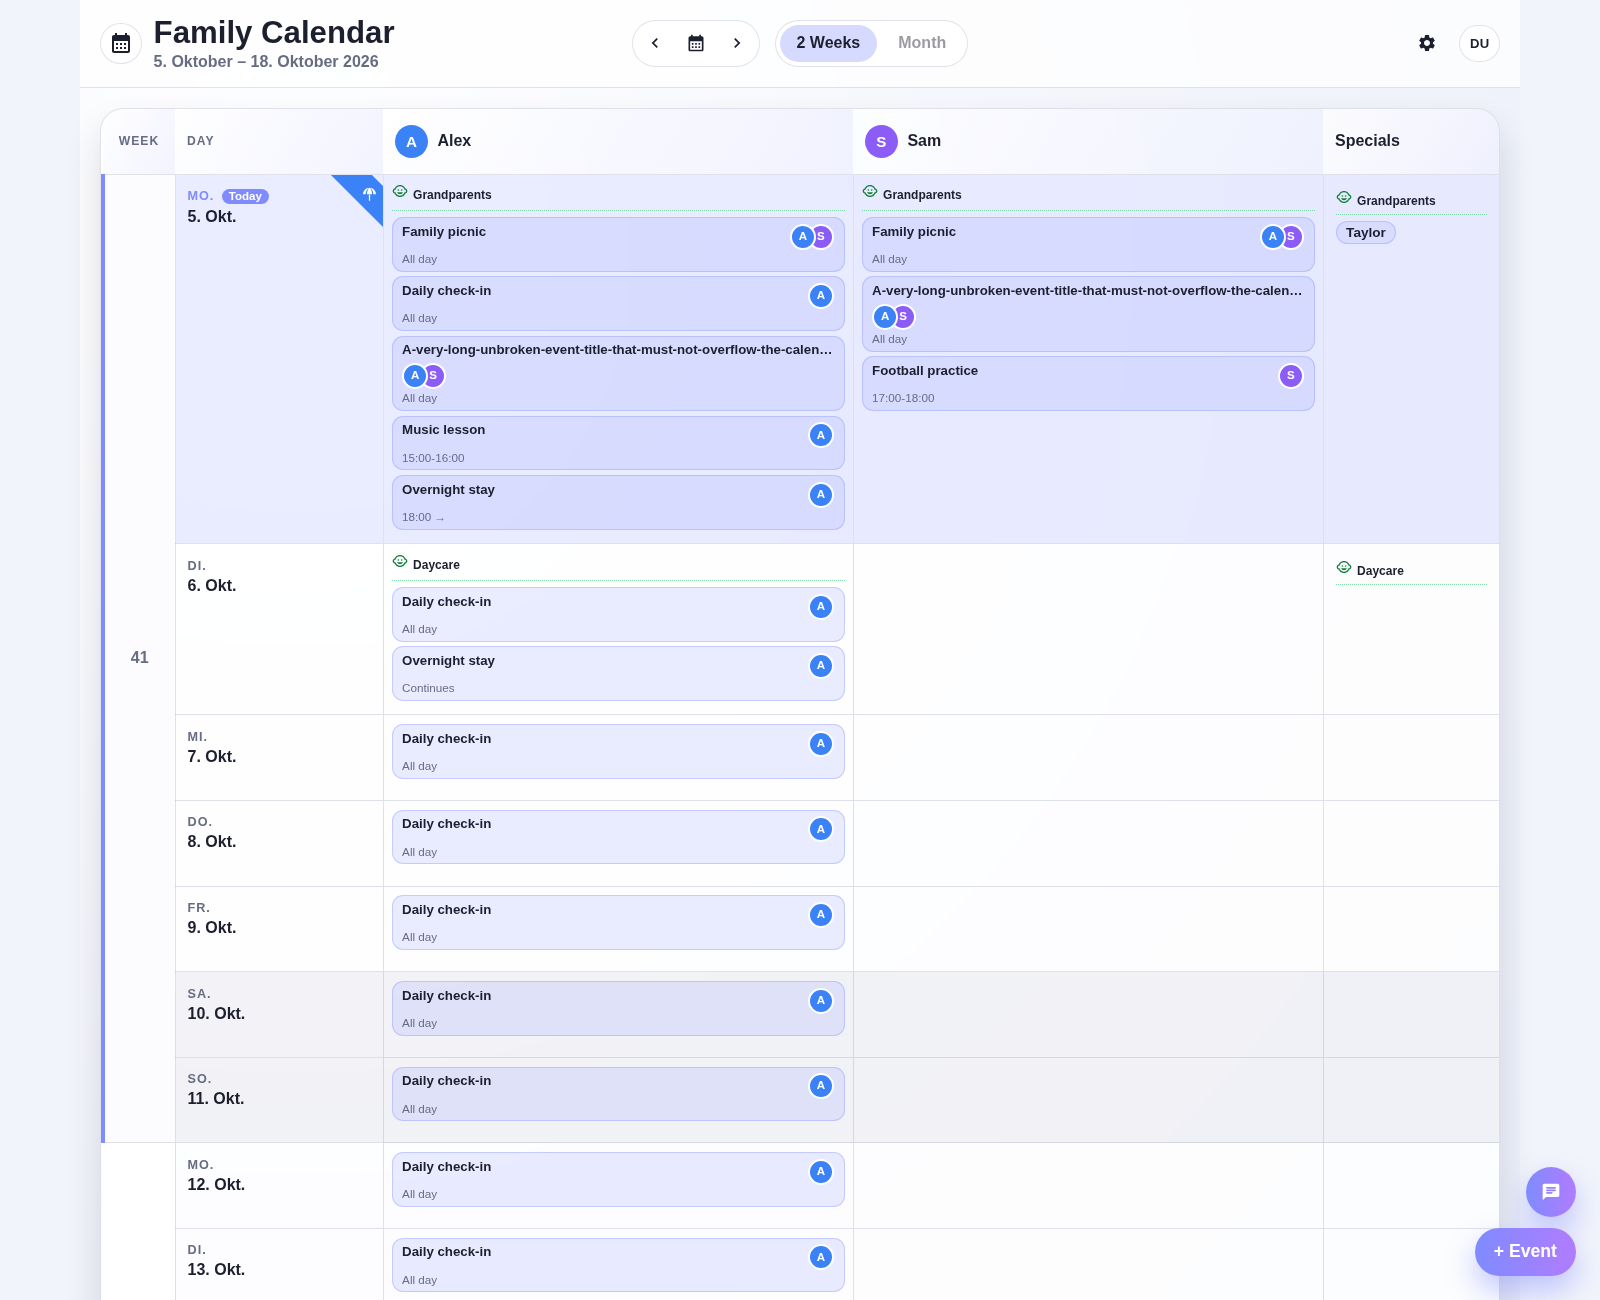
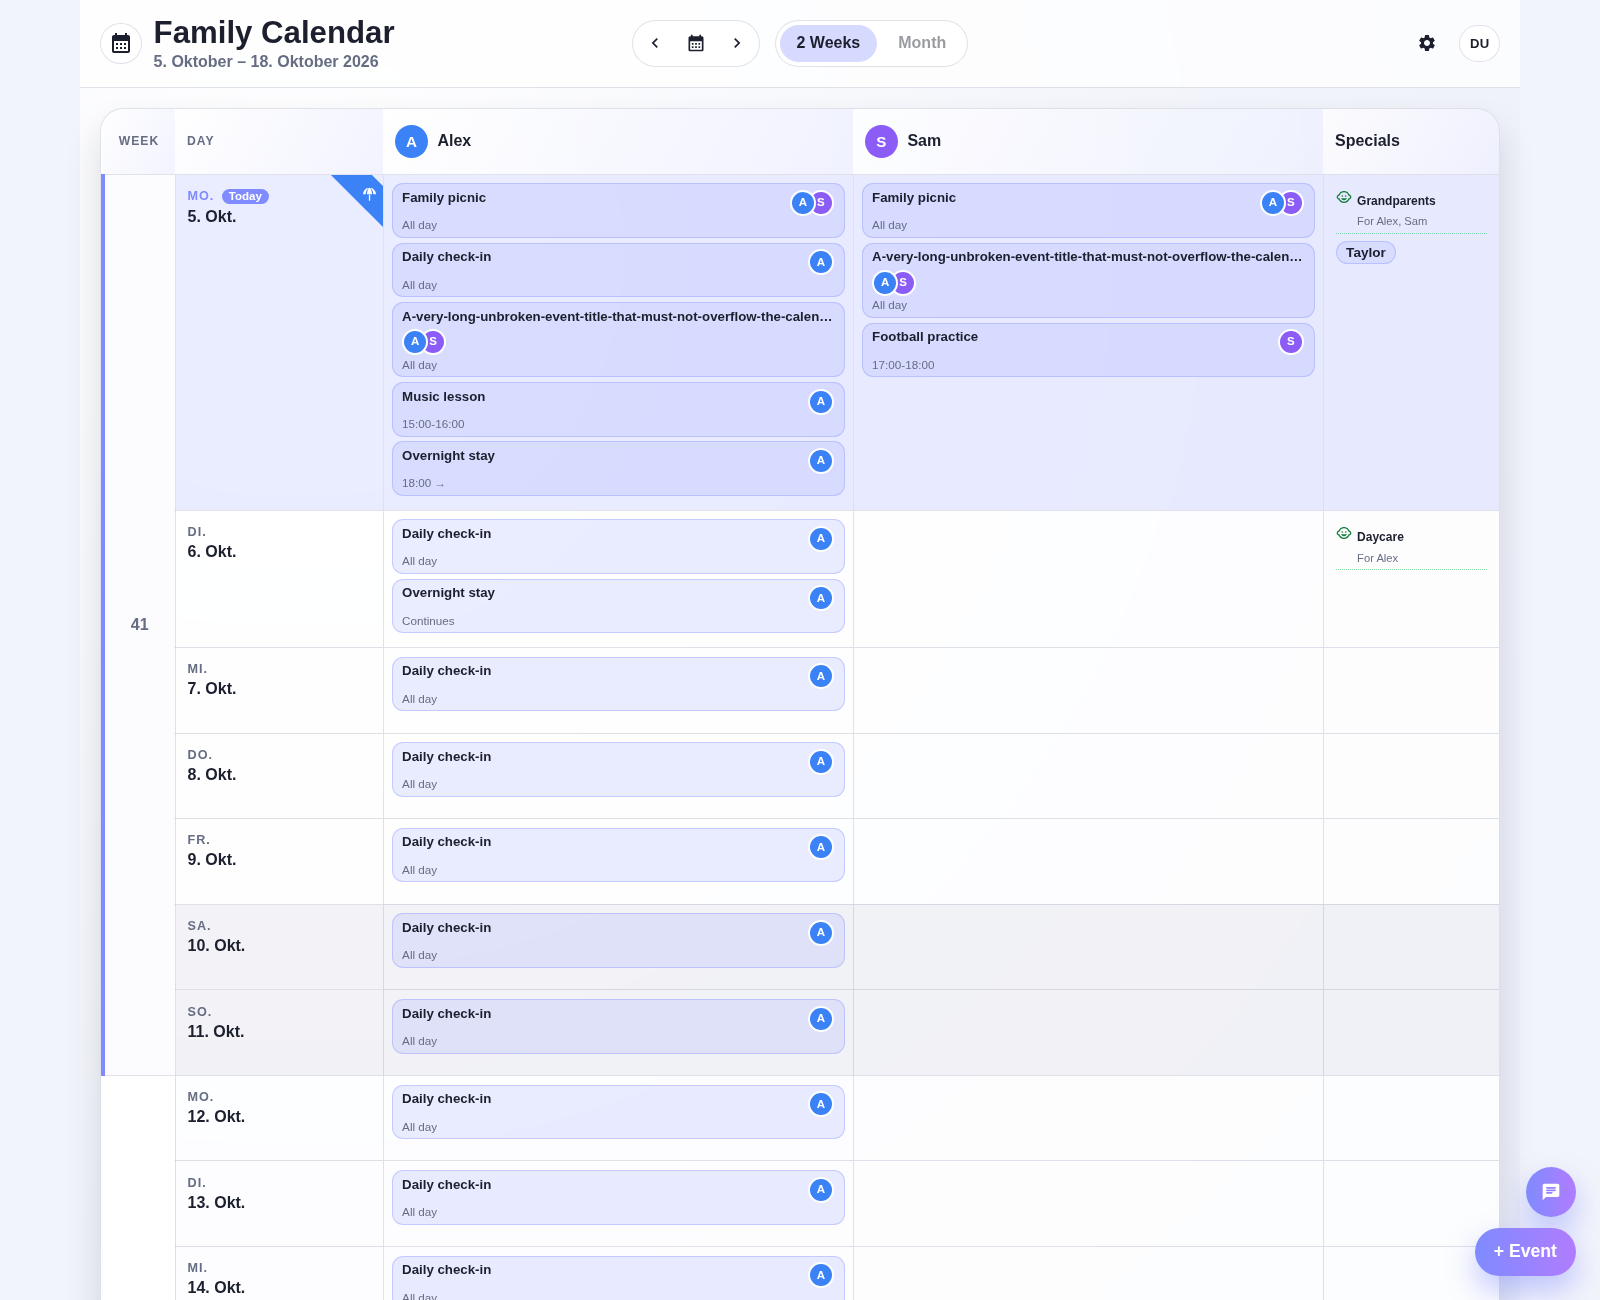
Keep childcare exclusively in Specials

diff --git a/frontend/src/pages/DashboardPage.tsx b/frontend/src/pages/DashboardPage.tsx
@@ -35,11 +35,9 @@ interface DayCellDecorations {
 function ChildcareCalendarEntry({
   occurrence,
   members,
-  className,
 }: {
   occurrence: ResolvedChildcareOccurrence;
   members: FamilyMember[];
-  className?: string;
 }) {
   const memberById = new Map(members.map((member) => [member.id, member]));
   const childNames = occurrence.childIds
@@ -57,12 +55,13 @@ function ChildcareCalendarEntry({
 
   return (
     <div
-      className={`calendar-childcare-entry ${className ?? ""}`.trim()}
+      className="calendar-childcare-entry"
       title={`${providerName} · ${details}`}
       aria-label={`Childcare: ${providerName}. ${details}`}
     >
       <ChildCareIcon className="calendar-childcare-icon" fontSize="small" aria-hidden="true" />
       <strong>{providerName}</strong>
+      <small>For {childNames.join(", ") || "household children"}</small>
     </div>
   );
 }
@@ -859,24 +858,8 @@ export function DashboardPage({
 
                       {visibleMembers.map((member) => {
                         const entries = eventsByDateAndMember.get(`${isoDate}|${member.id}`) ?? [];
-                        const childcareEntries = (childcareByDate.get(isoDate) ?? [])
-                          .filter((occurrence) => occurrence.childIds.includes(member.id));
                         return (
-                          <td
-                            key={`${isoDate}-${member.id}`}
-                            className={`event-cell member-event-cell ${childcareEntries.length > 0 ? "has-childcare" : ""}`}
-                          >
-                            {childcareEntries.length > 0 && (
-                              <div className="calendar-childcare-rail">
-                                {childcareEntries.map((occurrence) => (
-                                  <ChildcareCalendarEntry
-                                    key={occurrence.id}
-                                    occurrence={occurrence}
-                                    members={orderedMembers}
-                                  />
-                                ))}
-                              </div>
-                            )}
+                          <td key={`${isoDate}-${member.id}`} className="event-cell member-event-cell">
                             {entries.map((entry) => {
                               const eventType = entry.eventTypeId ? eventTypeById.get(entry.eventTypeId) : null;
                               const assignedMembers = entry.memberIds
@@ -899,16 +882,6 @@ export function DashboardPage({
                       })}
 
                       <td className="event-cell shared-events-column">
-                        {(childcareByDate.get(isoDate) ?? [])
-                          .filter((occurrence) => !selectedMember || occurrence.childIds.includes(selectedMember.id))
-                          .map((occurrence) => (
-                            <ChildcareCalendarEntry
-                              key={occurrence.id}
-                              occurrence={occurrence}
-                              members={orderedMembers}
-                              className="calendar-childcare-entry--compact-only"
-                            />
-                          ))}
                         {(eventsByDateAndMember.get(isoDate) ?? [])
                           .filter((entry) => !selectedMember || entry.memberIds.length === 0 || entry.memberIds.includes(selectedMember.id))
                           .map((entry) => (
@@ -921,11 +894,6 @@ export function DashboardPage({
                               onClick={() => openEventViewDialog(entry.id)}
                             />
                           ))}
-                        {birthdayEntries.map((entry) => (
-                          <span className="birthday-item" key={entry.id}>
-                            Birthday: {formatBirthdayLabel(entry)}
-                          </span>
-                        ))}
                       </td>
 
                       <td className="specials-cell">
@@ -934,7 +902,6 @@ export function DashboardPage({
                             key={occurrence.id}
                             occurrence={occurrence}
                             members={orderedMembers}
-                            className="calendar-childcare-entry--specials"
                           />
                         ))}
                         {birthdayEntries.map((entry) => (

diff --git a/frontend/src/pages/DashboardPage.stories.tsx b/frontend/src/pages/DashboardPage.stories.tsx
@@ -109,17 +109,17 @@ export const Desktop: Story = {
     const memberCells = todayRow.querySelectorAll(".member-event-cell");
     await waitFor(() => {
       expect(memberCells).toHaveLength(2);
-      const firstChildcare = memberCells[0].querySelector(".calendar-childcare-entry");
-      expect(firstChildcare?.textContent).toBe("Grandparents");
-      expect(firstChildcare?.querySelector(".calendar-childcare-icon")).not.toBeNull();
-      expect(firstChildcare?.getAttribute("title")).toContain("All day");
-      expect(firstChildcare?.textContent).not.toContain("For Alex");
+      expect(todayRow.querySelector(".calendar-childcare-entry")).toBeNull();
       const specialsCell = todayRow.querySelector(".specials-cell")!;
-      expect(specialsCell.querySelector(".calendar-childcare-entry")?.textContent).toBe("Grandparents");
+      const firstChildcare = specialsCell.querySelector(".calendar-childcare-entry")!;
+      expect(firstChildcare.textContent).toContain("Grandparents");
+      expect(firstChildcare.textContent).toContain("For Alex, Sam");
+      expect(firstChildcare.querySelector(".calendar-childcare-icon")).not.toBeNull();
+      expect(firstChildcare.getAttribute("title")).toContain("All day");
       expect(specialsCell.textContent.indexOf("Grandparents")).toBeLessThan(specialsCell.textContent.indexOf("Taylor"));
       expect(canvasElement.querySelector(".specials-column-header")?.textContent).toBe("Specials");
       expect(canvasElement.querySelector(".specials-column-header svg")).toBeNull();
-      expect(todayRow.querySelector(".shared-events-column .calendar-childcare-entry")).not.toBeVisible();
+      expect(todayRow.querySelector(".shared-events-column .calendar-childcare-entry")).toBeNull();
     });
   },
 };
@@ -157,15 +157,28 @@ export const DayAndEvents: Story = {
     await expect(events()).toHaveLength(1);
     await waitFor(() => {
       const sharedEvents = canvasElement.querySelector(".today-row .shared-events-column")!;
-      const entries = sharedEvents.querySelectorAll(".calendar-childcare-entry--compact-only");
-      const entry = entries[0];
+      const memberCells = canvasElement.querySelectorAll(".today-row .member-event-cell");
+      const specialsCell = canvasElement.querySelector(".today-row .specials-cell")!;
+      const entries = specialsCell.querySelectorAll(".calendar-childcare-entry");
+      const entry = entries[0]!;
+      const daycareEntry = Array.from(canvasElement.querySelectorAll(".specials-cell .calendar-childcare-entry"))
+        .find((childcareEntry) => childcareEntry.textContent?.includes("Daycare"));
+      expect(memberCells).toHaveLength(2);
+      expect(canvasElement.querySelector(".today-row .calendar-childcare-entry")).toBe(entry);
+      expect(specialsCell).toBeVisible();
+      expect(Array.from(memberCells).every((cell) => !cell.querySelector(".calendar-childcare-entry"))).toBe(true);
       expect(entry).toBeVisible();
-      expect(entry?.textContent).toBe("Grandparents");
+      expect(entry.textContent).toContain("Grandparents");
+      expect(entry.textContent).toContain("For Alex, Sam");
       expect(entry?.querySelector(".calendar-childcare-icon")).not.toBeNull();
       expect(entry?.getAttribute("title")).toContain("For Alex, Sam");
       expect(entry?.getAttribute("title")).toContain(`Moved from ${yesterdayDate}`);
-      expect(entries[1]?.textContent).toBe("Daycare");
-      expect(sharedEvents.textContent.indexOf("Grandparents")).toBeLessThan(sharedEvents.textContent.indexOf("Birthday: Taylor"));
+      expect(daycareEntry).toBeVisible();
+      expect(daycareEntry?.getAttribute("title")).toContain("15:00 – 16:00");
+      expect(daycareEntry?.getAttribute("title")).toContain("One-off adjustment");
+      expect(specialsCell.textContent.indexOf("Grandparents")).toBeLessThan(specialsCell.textContent.indexOf("Birthday: Taylor"));
+      expect(sharedEvents.querySelector(".calendar-childcare-entry")).toBeNull();
+      expect(sharedEvents.textContent).not.toContain("Birthday: Taylor");
     });
     await expect(canvas.getByRole("button", { name: "Open event Hidden member event" })).toBeVisible();
     await expect(canvas.queryByRole("button", { name: "Filter events for Hidden" })).toBeNull();

diff --git a/frontend/src/App.css b/frontend/src/App.css
@@ -737,17 +737,16 @@ body,
   .calendar-grid .week-column-header,
   .calendar-grid .week-number-cell,
   .calendar-grid .member-column-header,
-  .calendar-grid .member-event-cell,
-  .calendar-grid .specials-column-header,
-  .calendar-grid .specials-cell {
+  .calendar-grid .member-event-cell {
     display: none;
   }
 
-  .calendar-grid .calendar-childcare-entry--compact-only {
-    display: flex;
+  .calendar-grid .shared-events-column {
+    display: table-cell;
+    border-right: 0;
   }
 
-  .calendar-grid .shared-events-column {
+  .calendar-grid .specials-cell {
     display: table-cell;
     border-right: 0;
   }
@@ -756,8 +755,7 @@ body,
     width: 9rem;
   }
 
-  .shared-events-column .event-item-title,
-  .shared-events-column .birthday-item {
+  .shared-events-column .event-item-title {
     white-space: normal;
     overflow-wrap: anywhere;
     min-width: 0;
@@ -780,7 +778,8 @@ body,
   }
 
   .calendar-grid .day-cell,
-  .calendar-grid .shared-events-column {
+  .calendar-grid .shared-events-column,
+  .calendar-grid .specials-cell {
     display: block;
     width: 100%;
     height: auto;
@@ -794,6 +793,15 @@ body,
 
   .calendar-grid .shared-events-column {
     min-height: 1rem;
+  }
+
+  .calendar-grid .specials-cell::before {
+    display: block;
+    margin-bottom: 0.35rem;
+    color: var(--text-secondary);
+    content: "Specials";
+    font-size: 0.75rem;
+    font-weight: 700;
   }
 }
 
@@ -898,22 +906,9 @@ body,
   margin-bottom: 0.3rem;
 }
 
-.member-event-cell.has-childcare {
-  position: relative;
-  padding-top: 0.55rem !important;
-}
-
-.calendar-childcare-rail {
-  display: flex;
-  flex-direction: column;
-  gap: 0.15rem;
-  margin-bottom: 0.35rem;
-  padding-bottom: 0.2rem;
-  border-bottom: 1px dotted rgba(34, 197, 94, 0.55);
-}
-
 .calendar-childcare-entry {
   display: flex;
+  flex-wrap: wrap;
   align-items: baseline;
   gap: 0.35rem;
   min-width: 0;
@@ -924,6 +919,15 @@ body,
   overflow: hidden;
   white-space: nowrap;
   cursor: help;
+}
+
+.calendar-childcare-entry small {
+  flex-basis: 100%;
+  padding-left: 1.35rem;
+  color: var(--text-secondary);
+  font-size: 0.7rem;
+  overflow-wrap: anywhere;
+  white-space: normal;
 }
 
 .calendar-childcare-icon {
@@ -939,11 +943,7 @@ body,
   text-overflow: ellipsis;
 }
 
-.calendar-childcare-entry--compact-only {
-  display: none;
-}
-
-.calendar-childcare-entry--specials {
+.specials-cell .calendar-childcare-entry {
   margin-bottom: 0.4rem;
   padding-bottom: 0.3rem;
   border-bottom: 1px dotted rgba(34, 197, 94, 0.55);

diff --git a/CHANGELOG.md b/CHANGELOG.md
@@ -7,6 +7,7 @@
 - Updated childcare calendar presentation: wide member columns now use right-edge vertical provider bars with hover details; compact day cells show a single horizontal provider row. Updated screenshot: `/home/runner/work/family-butler-v2/family-butler-v2/docs/screenshots/household-calendar-childcare.png`.
 - Made childcare indicators more compact across calendar layouts: only the CARE label and provider remain visible, with times, children, and one-off changes available on hover. Updated screenshot: `/home/runner/work/family-butler-v2/family-butler-v2/docs/screenshots/household-calendar-childcare.png`.
 - Renamed Birthdays to Specials, added ChildCare icons beside childcare providers, and ordered childcare before birthdays in Specials. Updated screenshot: `/home/runner/work/family-butler-v2/family-butler-v2/docs/screenshots/household-calendar-childcare.png`.
+- Kept childcare exclusively in Specials across calendar sizes, showing participating child names alongside providers and retaining details on hover. Updated screenshot: `/home/runner/work/family-butler-v2/family-butler-v2/docs/screenshots/household-calendar-childcare.png`.
 - Aligned Childcare Settings with the other Settings grids using shared card styling, right-aligned icon actions, and styled add buttons. Updated screenshot: `/home/runner/work/family-butler-v2/family-butler-v2/docs/screenshots/settings-childcare.png`.
 - Added Settings → Childcare for provider editing/deactivation/reactivation, weekly all-day/timed arrangements with multiple children, non-persisting server-resolved previews, and single-occurrence cancellations/replacements/moves. Existing installations must rerun the childcare SQL migration. Updated UI screenshot: `/home/runner/work/family-butler-v2/family-butler-v2/docs/screenshots/settings-childcare.png`.
 - Added household-scoped childcare persistence, owner-based RLS, and an authenticated API for weekly all-day/timed arrangements with multiple children and one-off cancellation, replacement, and move overrides. Effective occurrences resolve server-side from persisted data, separately from events; UI, calendar, and agent integration remain planned.
